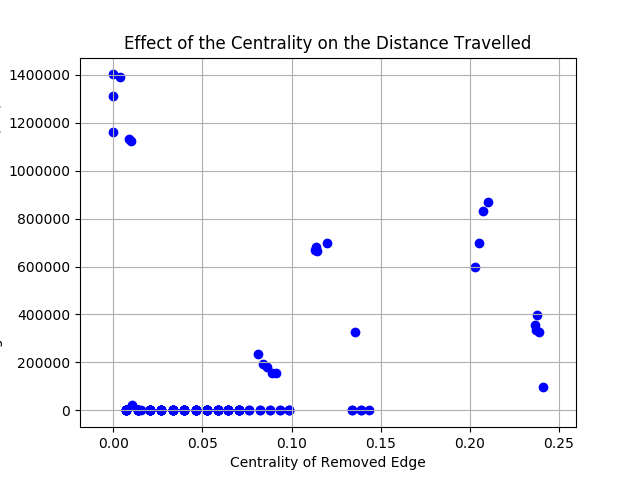
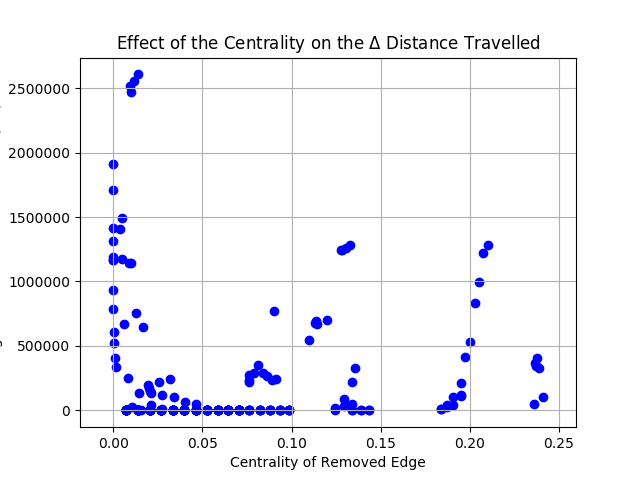
Run experiment without re-directing the flows.

diff --git a/modifying_edges.py b/modifying_edges.py
@@ -23,11 +23,12 @@ def delete_one_edge_and_evaluate(graph, test_type=None,
     unmodified_metro_score = graph_measure(
         graph, "metro_performance", missed_trips=0, removed_edge_dist=0
     )
+    print("Finished initialization...", str(time.time() - overall_start_time), "sec")
     
-    removal_effects_alpha_0, removal_effects_alpha_1 = [], [], []
+    removal_effects_alpha_0, removal_effects_alpha_1 = [], []
     removal_effects, centralities, edges_in_order = [], [], []
-    missed_trips, flows, distances, changed_trips = [], [], [] 
-    changed_trips_distance, conserved_trips = [], [], []
+    missed_trips, flows, distances, changed_trips = [], [], [], [] 
+    changed_trips_distance, conserved_trips = [], []
     
     i = 0
     start_time = time.time()
@@ -67,14 +68,14 @@ def delete_one_edge_and_evaluate(graph, test_type=None,
         
         # Add some logging so that we don't lose hope
         i += 1
-        if i == 150:
-            break
-        if i % 1 == 0:
+        # if i == 150:
+        #     break
+        if i % 25 == 0:
             end_time = time.time() 
             print(
                 "{0:4}".format(i), ": {0:5.2f}".format(end_time - start_time), "sec", 
                 "  {0:7}".format("{0:,}".format(missed)), "missed", 
-                "  {0:10}".format("{0:.2f}".format(changed_dist)), "changed_dist", 
+                "  {0:10}".format("{0:.2f}".format(changed_dist[1])), "changed_dist", 
                 "  {0:7}".format("{0:,}".format(conserved)), "conserved"
             )
             start_time = time.time()
@@ -124,9 +125,13 @@ def delete_one_edge_and_evaluate(graph, test_type=None,
                 file_name=plot_options[title_key]["file_name"] + this_x_axis_data + ".png"
             )
     
+    # removal_effects_alpha_0, removal_effects_alpha_1 = [], []
+    # removal_effects, centralities, edges_in_order = [], [], []
+    # missed_trips, flows, distances, changed_trips = [], [], [], [] 
+    # changed_trips_distance, conserved_trips = [], []
+    
     make_plot(
-        x=centralities, 
-        y=missed_trips, type_of_plot="scatter",
+        x=centralities, y=missed_trips, type_of_plot="scatter",
         ylabel="# of Trips That Became Infeasible", 
         xlabel="Centrality of Removed Edge",
         title="Effect of the Centrality on the # of Infeasible Trips",
@@ -134,12 +139,19 @@ def delete_one_edge_and_evaluate(graph, test_type=None,
     )
     
     make_plot(
-        x=centralities, 
-        y=changed_trips_distance, type_of_plot="scatter",
+        x=centralities, y=changed_trips_distance, type_of_plot="scatter",
         ylabel="Change in Total Distance Travelled (km)", 
         xlabel="Centrality of Removed Edge",
-        title="Effect of the Centrality on the Distance Travelled",
+        title=r"Effect of the Centrality on the $\Delta$ Distance Travelled",
         file_name="changed_trips_against_centrality.png"
+    )
+    
+    make_plot(
+        x=missed_trips, y=changed_trips, type_of_plot="scatter",
+        ylabel="# of Trips That Changed Their Path", 
+        xlabel="# of Missed Trips After Edge Removal",
+        title="Investigating Alternate Paths on the Metro",
+        file_name="investigating_alternate_paths_on_metro.png"
     )
     
     # helper_make_plots(y=removal_effects, title_key="metro_performance")

diff --git a/create_metro_graph.py b/create_metro_graph.py
@@ -165,7 +165,9 @@ class metro_graph():
         all_shortest_paths_lengths = nx.shortest_path_length(self.G, weight="distance")
         
         # Investigate how the changed paths have affected the flow
-        num_missed_trips, changed_trips_distance, num_conserved_trips, num_changed_trips = 0, 0, 0, 0
+        num_missed_trips, changed_trips_distance = 0, 0
+        num_conserved_trips, num_changed_trips = 0, 0
+        
         for journey in self.journeys:
             flow = self.journeys[journey]
             try:
@@ -205,10 +207,9 @@ class metro_graph():
                         
                     # Note how much the distance has changed for this journey 
                     num_changed_trips += flow
-                    changed_trips_distance += previous_shortest_path_length * flow
+                    changed_trips_distance += shortest_path_length * flow
                     
             except Exception as e:
-                # For all the currently infeasible trips
                 num_missed_trips += flow
         
         # Add a sanity check
